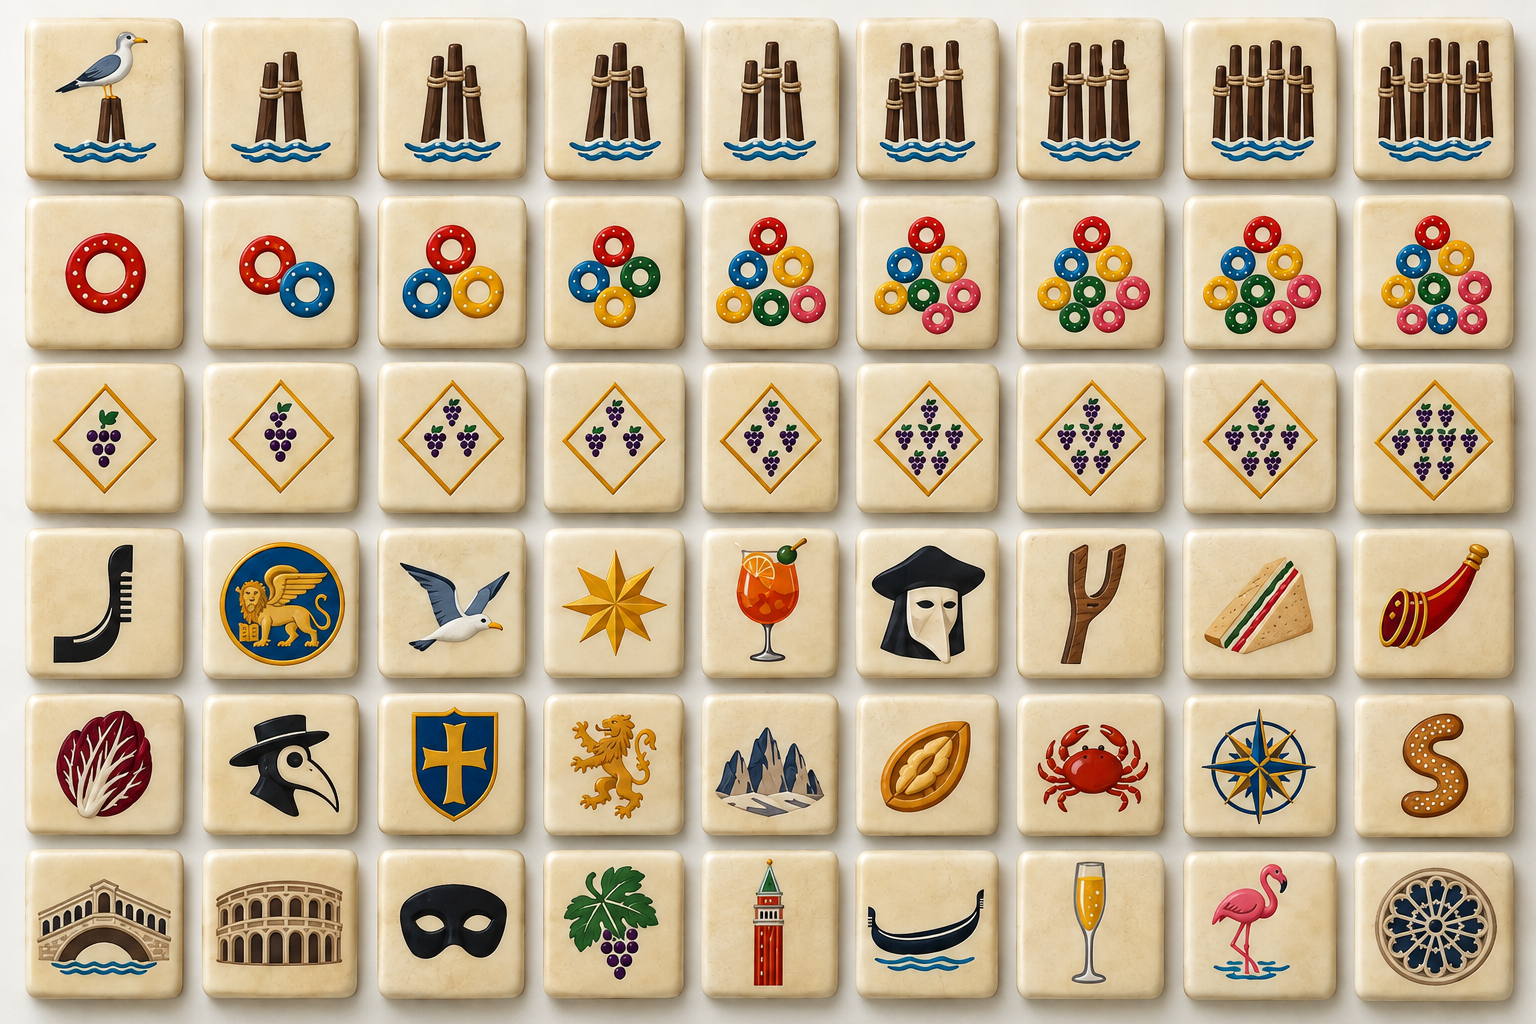
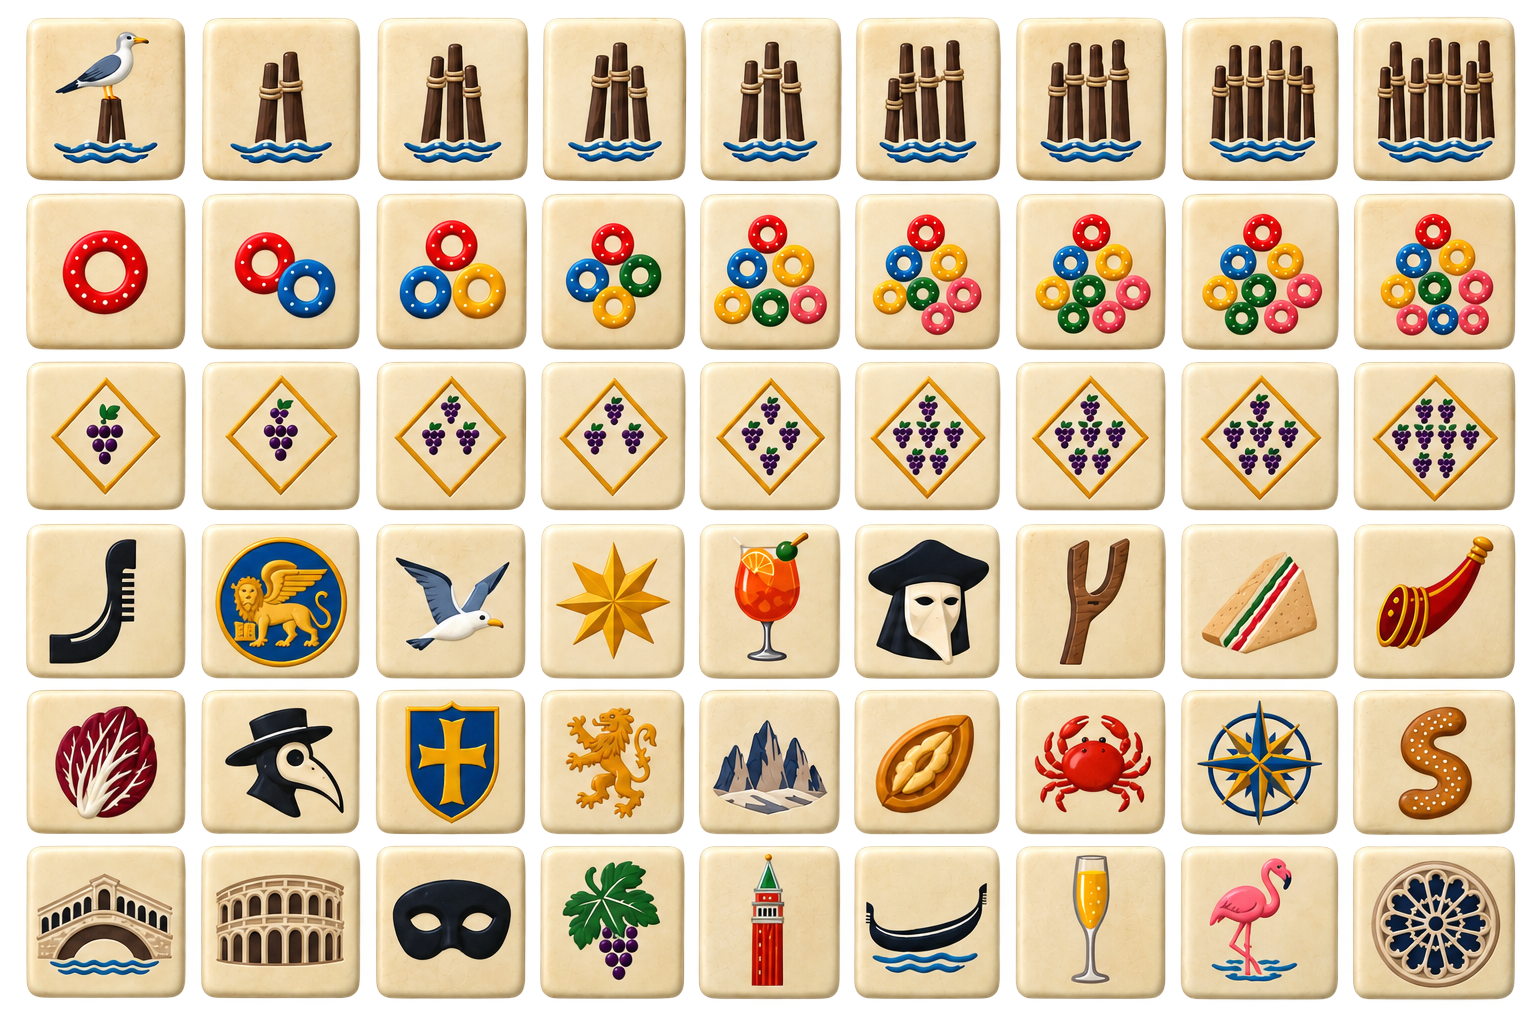
Add files via upload

diff --git a/lib/spriteSplitter.ts b/lib/spriteSplitter.ts
@@ -1,14 +1,25 @@
 /**
- * Taglia lo sprite sheet 9x6 in 54 tessere (dataURL).
- * Cella base = width/9 x height/6; poi rifila lo sfondo chiaro e l'ombra grigia
- * cercando il corpo beige della tessera, e ritaglia gli angoli arrotondati con alpha.
+ * Taglia lo sprite sheet 9x6 in 54 tessere (dataURL) e "cuoce" su ognuna lo spessore 3D e l'ombra.
+ * Cella base = width/9 x height/6. Se il foglio ha lo sfondo trasparente il contorno si trova
+ * dall'alpha (bordi puliti, niente alone bianco); altrimenti si usa il colore beige come prima.
  */
 export interface SplitOptions {
   cols?: number;
   rows?: number;
-  outWidth?: number;
-  outHeight?: number;
 }
+
+/** Geometria delle tessere generate (in pixel del canvas di uscita) */
+export const TILE = {
+  face: 176, // faccia quadrata
+  depth: 9, // spessore visibile sotto la faccia
+  padL: 10,
+  padT: 6,
+  padR: 16,
+  padB: 30,
+  radius: 0.085, // raggio angoli, frazione della faccia (per l'anello di selezione)
+};
+export const TILE_W = TILE.face + TILE.padL + TILE.padR;
+export const TILE_H = TILE.face + TILE.padT + TILE.padB;
 
 type Box = { x: number; y: number; w: number; h: number };
 
@@ -21,9 +32,6 @@ function loadImage(src: string): Promise<HTMLImageElement> {
     img.src = src;
   });
 }
-
-/** Pixel della tessera: beige/colorato. Lo sfondo è bianco e l'ombra è grigio neutro. */
-const isTile = (r: number, g: number, b: number) => r - b >= 28 || Math.max(r, g, b) - Math.min(r, g, b) > 55;
 
 function pickRun(flags: boolean[], center: number, maxGap = 1): [number, number] | null {
   const f = flags.slice();
@@ -50,8 +58,20 @@ const median = (v: number[]) => {
   return s[Math.floor(s.length / 2)] ?? 0;
 };
 
+function tint(src: HTMLCanvasElement, color: string) {
+  const c = document.createElement('canvas');
+  c.width = src.width;
+  c.height = src.height;
+  const x = c.getContext('2d')!;
+  x.drawImage(src, 0, 0);
+  x.globalCompositeOperation = 'source-in';
+  x.fillStyle = color;
+  x.fillRect(0, 0, c.width, c.height);
+  return c;
+}
+
 export async function splitSpriteSheet(src: string, opts: SplitOptions = {}): Promise<string[]> {
-  const { cols = 9, rows = 6, outWidth = 176, outHeight = 182 } = opts;
+  const { cols = 9, rows = 6 } = opts;
   const img = await loadImage(src);
   const W = img.naturalWidth || img.width;
   const H = img.naturalHeight || img.height;
@@ -64,9 +84,29 @@ export async function splitSpriteSheet(src: string, opts: SplitOptions = {}): Pr
   const sctx = sheet.getContext('2d', { willReadFrequently: true })!;
   sctx.drawImage(img, 0, 0);
   const data = sctx.getImageData(0, 0, W, H).data;
-  const tile = (x: number, y: number) => {
+
+  // sfondo trasparente? (controllo gli angoli e le fughe tra le celle)
+  let transparentSamples = 0;
+  const probes = [
+    [2, 2],
+    [W - 3, 2],
+    [2, H - 3],
+    [W - 3, H - 3],
+    [Math.round(cellW), 3],
+    [3, Math.round(cellH)],
+  ];
+  probes.forEach(([x, y]) => {
+    if (data[(y * W + x) * 4 + 3] < 40) transparentSamples++;
+  });
+  const useAlpha = transparentSamples >= 4;
+
+  const isTile = (x: number, y: number) => {
     const i = (y * W + x) * 4;
-    return isTile(data[i], data[i + 1], data[i + 2]);
+    if (useAlpha) return data[i + 3] > 128;
+    const r = data[i];
+    const g = data[i + 1];
+    const b = data[i + 2];
+    return r - b >= 28 || Math.max(r, g, b) - Math.min(r, g, b) > 55;
   };
 
   // 1) bounding box di ogni tessera
@@ -80,13 +120,13 @@ export async function splitSpriteSheet(src: string, opts: SplitOptions = {}): Pr
       const rowFlags: boolean[] = [];
       for (let y = y0; y < y1; y++) {
         let n = 0;
-        for (let x = x0; x < x1; x += 2) if (tile(x, y)) n++;
-        rowFlags.push(n > 0.45 * ((x1 - x0) / 2));
+        for (let x = x0; x < x1; x += 2) if (isTile(x, y)) n++;
+        rowFlags.push(n > (useAlpha ? 0.3 : 0.45) * ((x1 - x0) / 2));
       }
       const colFlags: boolean[] = [];
       for (let x = x0; x < x1; x++) {
         let n = 0;
-        for (let y = y0; y < y1; y += 2) if (tile(x, y)) n++;
+        for (let y = y0; y < y1; y += 2) if (isTile(x, y)) n++;
         colFlags.push(n > 0.3 * ((y1 - y0) / 2));
       }
       const rr = pickRun(rowFlags, Math.floor((r + 0.5) * cellH) - y0);
@@ -95,7 +135,7 @@ export async function splitSpriteSheet(src: string, opts: SplitOptions = {}): Pr
     }
   }
 
-  // 2) correzione dei ritagli anomali (icone con molto grigio/blu) con le mediane di riga/colonna
+  // 2) correzione dei ritagli anomali con le mediane di riga/colonna
   for (let r = 0; r < rows; r++) {
     const rowBoxes = boxes.slice(r * cols, r * cols + cols).filter(Boolean) as Box[];
     const mY = median(rowBoxes.map((b) => b.y));
@@ -119,23 +159,70 @@ export async function splitSpriteSheet(src: string, opts: SplitOptions = {}): Pr
     }
   }
 
-  // 3) disegno normalizzato con angoli arrotondati trasparenti
+  // 3) faccia normalizzata + spessore + ombra morbida, tutto cotto nel PNG
+  const F = TILE.face;
+  const face = document.createElement('canvas');
+  face.width = F;
+  face.height = F;
+  const fctx = face.getContext('2d', { willReadFrequently: true })!;
+  fctx.imageSmoothingQuality = 'high';
+
   const out = document.createElement('canvas');
-  out.width = outWidth;
-  out.height = outHeight;
+  out.width = TILE_W;
+  out.height = TILE_H;
   const octx = out.getContext('2d')!;
-  octx.imageSmoothingQuality = 'high';
-  const radius = outWidth * 0.12;
+
   const result: string[] = [];
   for (const b of boxes as Box[]) {
-    octx.clearRect(0, 0, outWidth, outHeight);
+    fctx.clearRect(0, 0, F, F);
+    fctx.save();
+    if (!useAlpha) {
+      // foglio senza trasparenza: angoli arrotondati ritagliati a mano
+      fctx.beginPath();
+      if (typeof fctx.roundRect === 'function') fctx.roundRect(0, 0, F, F, F * TILE.radius);
+      else fctx.rect(0, 0, F, F);
+      fctx.clip();
+      fctx.drawImage(sheet, b.x + 1, b.y + 1, b.w - 2, b.h - 2, 0, 0, F, F);
+    } else {
+      fctx.drawImage(sheet, b.x, b.y, b.w, b.h, 0, 0, F, F);
+    }
+    fctx.restore();
+    // la faccia deve essere pienamente opaca (l'alpha del foglio è 250-253)
+    const fd = fctx.getImageData(0, 0, F, F);
+    for (let i = 3; i < fd.data.length; i += 4) if (fd.data[i] > 150) fd.data[i] = 255;
+    fctx.putImageData(fd, 0, 0);
+
+    const dark = tint(face, '#7d6240');
+    const mid = tint(face, '#a88a5c');
+    const rim = tint(face, '#d9c49c');
+
+    octx.clearRect(0, 0, TILE_W, TILE_H);
+    // ombra portata morbida sul tavolo
     octx.save();
-    octx.beginPath();
-    if (typeof octx.roundRect === 'function') octx.roundRect(0, 0, outWidth, outHeight, radius);
-    else octx.rect(0, 0, outWidth, outHeight);
-    octx.clip();
-    octx.drawImage(sheet, b.x + 1, b.y + 1, b.w - 2, b.h - 2, 0, 0, outWidth, outHeight);
+    octx.shadowColor = 'rgba(40, 24, 12, 0.5)';
+    octx.shadowBlur = 14;
+    octx.shadowOffsetX = 3;
+    octx.shadowOffsetY = 8;
+    octx.drawImage(dark, TILE.padL, TILE.padT + TILE.depth);
     octx.restore();
+    // spessore: strati dal più scuro (base) al più chiaro (sotto la faccia)
+    for (let d = TILE.depth; d >= 1; d--) {
+      const layer = d > TILE.depth * 0.55 ? dark : d > 2 ? mid : rim;
+      octx.drawImage(layer, TILE.padL + d * 0.25, TILE.padT + d);
+    }
+    // faccia
+    octx.drawImage(face, TILE.padL, TILE.padT);
+    // leggerissima luce dall'alto sulla faccia
+    octx.save();
+    octx.globalCompositeOperation = 'source-atop';
+    const g = octx.createLinearGradient(0, TILE.padT, 0, TILE.padT + F);
+    g.addColorStop(0, 'rgba(255,255,255,0.10)');
+    g.addColorStop(0.5, 'rgba(255,255,255,0)');
+    g.addColorStop(1, 'rgba(60,35,15,0.06)');
+    octx.fillStyle = g;
+    octx.fillRect(TILE.padL, TILE.padT, F, F);
+    octx.restore();
+
     result.push(out.toDataURL('image/png'));
   }
   return result;

diff --git a/components/Board.tsx b/components/Board.tsx
@@ -3,13 +3,18 @@ import { motion } from 'framer-motion';
 import { useEffect, useMemo, useRef, useState } from 'react';
 import type { Tile } from '@/lib/board';
 import { KIND_NAMES } from '@/lib/tiles';
+import { TILE, TILE_H, TILE_W } from '@/lib/spriteSplitter';
 
-/** Proporzioni della tessera ritagliata (176x182) e passo sulla griglia */
-const ASPECT = 176 / 182;
-const SX = 0.95; // passo orizzontale in frazione della larghezza
-const SY = 0.9; // passo verticale: il bordo inferiore 3D resta sotto la tessera successiva
-const DX = 0.075; // spostamento per strato
-const DY = 0.09;
+/**
+ * La griglia lavora sulla FACCIA quadrata della tessera; lo spessore e l'ombra sono già cotti
+ * nel PNG e sporgono oltre la faccia (sotto e a destra), coperti dalla riga successiva.
+ */
+const ASPECT = 1;
+const SX = 0.985; // facce quasi a contatto
+const SY = 0.985;
+const DX = 0.07; // spostamento per strato: si vede lo spessore della tessera sopra
+const DY = 0.085;
+const DEPTH = (TILE.depth + 3) / TILE.face; // margine per lo spessore dell'ultima riga
 
 interface Props {
   tiles: Tile[];
@@ -49,7 +54,7 @@ export function Board({ tiles, sprites, free, selected, hint, vanishing, shakeId
 
   const size = useMemo(() => {
     const wu = (geom.spanX / 2 - 1) * SX + 1 + geom.layers * DX;
-    const hu = (geom.spanY / 2 - 1) * SY + 1 + geom.layers * DY;
+    const hu = (geom.spanY / 2 - 1) * SY + 1 + geom.layers * DY + DEPTH;
     const w = Math.max(24, Math.min(box.w / wu, (box.h * ASPECT) / hu, 118));
     return { w, h: w / ASPECT, bw: wu * w, bh: (hu * w) / ASPECT };
   }, [box, geom]);
@@ -103,7 +108,7 @@ export function Board({ tiles, sprites, free, selected, hint, vanishing, shakeId
                   disabled={partner !== undefined}
                   onClick={() => onTile(t)}
                   className="relative block h-full w-full p-0 outline-none"
-                  style={{ borderRadius: size.w * 0.12, cursor: isFree ? 'pointer' : 'default' }}
+                  style={{ borderRadius: size.w * TILE.radius, cursor: isFree ? 'pointer' : 'default' }}
                   animate={
                     exitTo
                       ? { opacity: 0, x: exitTo.x, y: exitTo.y - size.h * 0.35, scale: 0.75, transition: { duration: 0.42, ease: [0.4, 0, 0.2, 1] } }
@@ -112,13 +117,19 @@ export function Board({ tiles, sprites, free, selected, hint, vanishing, shakeId
                   transition={{ type: 'spring', stiffness: 420, damping: 28 }}
                   whileHover={isFree && !exitTo && !isSel ? { y: -size.h * 0.035 } : undefined}
                 >
-                  <span key={shake} className={`block h-full w-full ${shake ? 'tile-shake' : ''}`}>
+                  <span key={shake} className={`relative block h-full w-full ${shake ? 'tile-shake' : ''}`}>
                     {/* eslint-disable-next-line @next/next/no-img-element */}
                     <img
                       src={sprites[t.kind]}
                       alt=""
                       draggable={false}
-                      className={`pointer-events-none h-full w-full select-none transition-[filter] duration-300 ${isFree ? 'tile-free' : 'tile-blocked'}`}
+                      className={`pointer-events-none absolute max-w-none select-none transition-[filter] duration-300 ${isFree ? 'tile-free' : 'tile-blocked'}`}
+                      style={{
+                        left: -(TILE.padL / TILE.face) * size.w,
+                        top: -(TILE.padT / TILE.face) * size.w,
+                        width: (TILE_W / TILE.face) * size.w,
+                        height: (TILE_H / TILE.face) * size.w,
+                      }}
                     />
                   </span>
                   {isSel && (

diff --git a/components/Magoga.tsx b/components/Magoga.tsx
@@ -129,7 +129,7 @@ export function MagogaSteal({ tileSrc, onDone }: { tileSrc?: string; onDone: () 
               key="trophy"
               src={tileSrc}
               alt=""
-              className="tile-shadow absolute -left-[38px] -top-[44px] h-[88px] w-[76px] max-w-none"
+              className="tile-shadow absolute -left-[44px] -top-[42px] h-auto w-[96px] max-w-none"
               initial={{ scale: 0, rotate: -20 }}
               animate={{ scale: 1, rotate: step === 2 ? [0, -4, 4, 0] : 0 }}
               exit={{ opacity: 0, transition: { duration: 0.05 } }}
@@ -147,7 +147,7 @@ export function MagogaSteal({ tileSrc, onDone }: { tileSrc?: string; onDone: () 
           <Gull mode={step === 2 ? 'squawk' : 'fly'} width={240} />
           {step === 3 && tileSrc && (
             // eslint-disable-next-line @next/next/no-img-element
-            <img src={tileSrc} alt="" className="tile-shadow absolute left-[96px] top-[150px] h-[88px] w-[76px] max-w-none rotate-12" />
+            <img src={tileSrc} alt="" className="tile-shadow absolute left-[90px] top-[150px] h-auto w-[96px] max-w-none rotate-12" />
           )}
           <AnimatePresence>
             {step === 2 && (

diff --git a/app/globals.css b/app/globals.css
@@ -28,10 +28,10 @@ body { font-family: Manrope, system-ui, 'Segoe UI', sans-serif; -webkit-tap-high
 }
 .btn-soft:hover { background: rgba(255, 250, 240, 0.92); }
 
-.tile-shadow { filter: drop-shadow(0 3px 3px rgba(46, 28, 15, 0.35)); }
-.tile-free { filter: drop-shadow(0 4px 4px rgba(46, 28, 15, 0.42)) brightness(1.05) saturate(1.05); }
+.tile-shadow { filter: none; }
+.tile-free { filter: brightness(1.04) saturate(1.05); }
 /* tessere non abbinabili: nettamente in ombra, ma ancora leggibili */
-.tile-blocked { filter: drop-shadow(0 2px 2px rgba(46, 28, 15, 0.3)) brightness(0.66) saturate(0.7) sepia(0.12); }
+.tile-blocked { filter: brightness(0.66) saturate(0.7) sepia(0.12); }
 
 @keyframes hintPulse {
   0%, 100% { box-shadow: 0 0 0 2px rgba(233, 196, 106, 0.9), 0 0 14px 3px rgba(233, 196, 106, 0.55); }

diff --git a/README.md b/README.md
@@ -17,7 +17,7 @@ Deploy: importa la cartella su Vercel (framework Next.js rilevato in automatico)
 
 ## Struttura
 - `public/tiles.png` sprite sheet 9x6 (54 tessere uniche)
-- `lib/spriteSplitter.ts` taglio in canvas (cella width/9 x height/6), rifilatura del bordo bianco e dell'ombra, angoli trasparenti
+- `lib/spriteSplitter.ts` taglio in canvas (cella width/9 x height/6): con sfondo trasparente usa l'alpha per bordi puliti, poi cuoce su ogni tessera spessore 3D e ombra morbida
 - `lib/layout.ts` livelli: piano, poi piramidi sempre più alte con forme a rotazione (rombo, ponte, torri, croce, anello, isola); in verticale su mobile la griglia ruota
 - `lib/board.ts` regole (tessera libera = non coperta e con un lato libero), distribuzione sempre risolvibile, rimescolo risolvibile
 - `lib/sound.ts` audio procedurale Web Audio: ambienti (laguna, nebbia con campane, colli con uccellini, montagna con vento e campanacci), vaporetto e gabbiani lontani, bambù, cin cin di spritz e prosecco, verso del magòga
